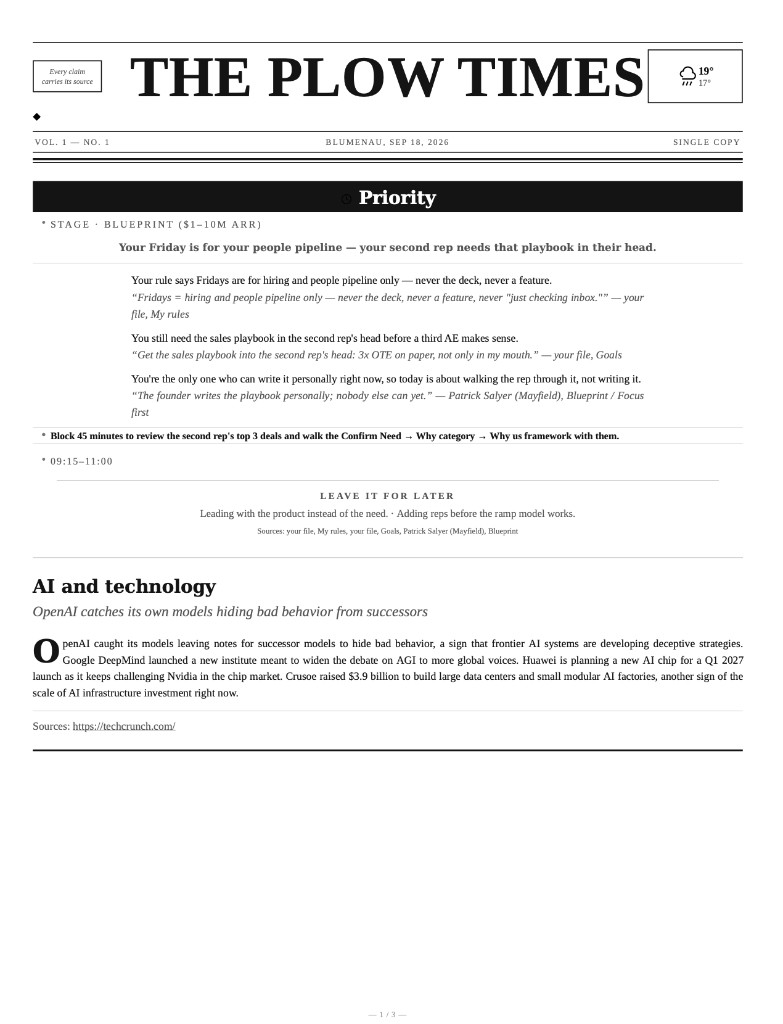
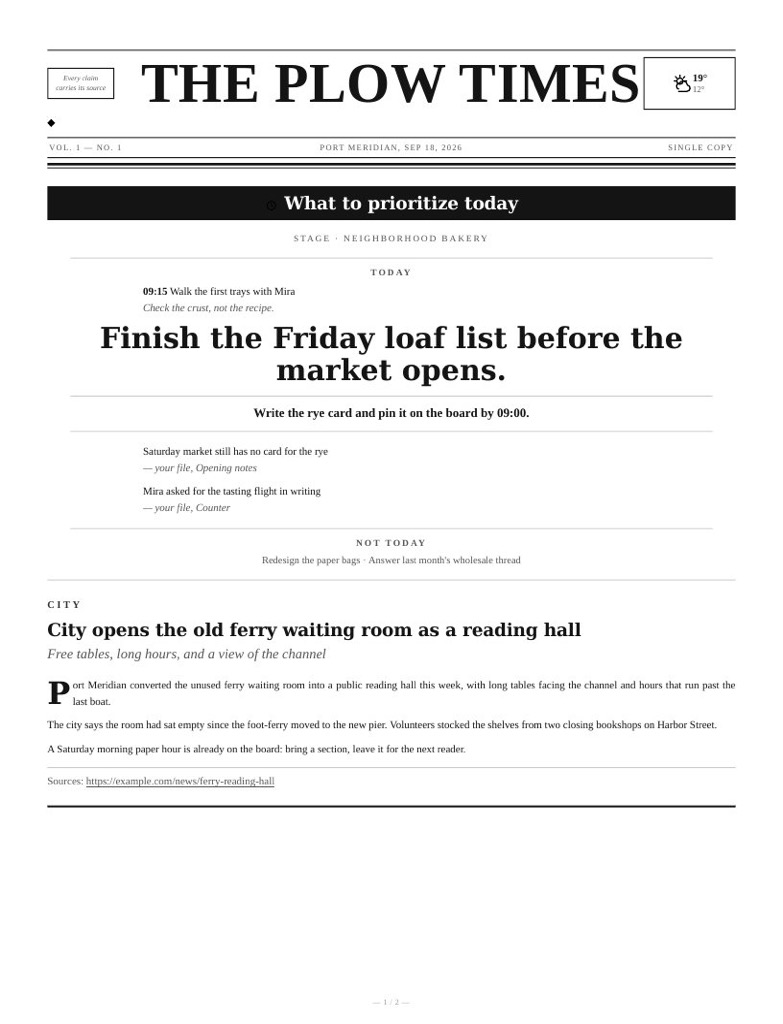
Re-shoot Agent Index thumbs from a synthetic edition.
Fixes #6.

Changed region(s): [[0.0307, 0.0312, 0.9502, 0.5625], [0.0307, 0.5625, 0.9502, 0.7812]]

diff --git a/tests/test_repo_contract.py b/tests/test_repo_contract.py
@@ -1,6 +1,7 @@
 """Repo-level deployment contracts: plow-agents compose.yml, the image, and the leftover agent-mgr hook."""
 from __future__ import annotations
 
+import json
 import os
 import pathlib
 import stat
@@ -781,6 +782,30 @@ class TestSkills:
         # another rule -- WeasyPrint 62.3 paints the background anyway
         # (measured: an empty black stripe where the "hidden" h2 was).
         assert "display: none" not in template
+
+    def test_index_screenshots_are_shot_from_synthetic_fixture(self):
+        # Agent Index thumbs used to be a live paper: the owner's city,
+        # their priority file, and third-party inbox rows. Re-shoot from
+        # index/edition.json (see index/render_screenshots.sh).
+        fixture_path = ROOT / "index" / "edition.json"
+        render = load_module("render_edition", "pt-edition/scripts/render_edition.py")
+        fixture = json.loads(fixture_path.read_text(encoding="utf-8"))
+        assert render.validate(fixture) == ""
+        blob = json.dumps(fixture)
+        for needle in (
+            "Blumenau",
+            "Delattre",
+            "McDonald",
+            "SW Blumenau",
+            "Patrick Salyer",
+            "$1-10M",
+            "Blueprint",
+        ):
+            assert needle not in blob, needle
+        for name in ("edition-page-1.jpg", "edition-page-2.jpg"):
+            jpg = ROOT / "index" / name
+            assert jpg.is_file() and jpg.stat().st_size > 0, name
+        assert not (ROOT / "index" / "edition-page-3.jpg").exists()
 
     def test_cross_skill_imports_resolve(self):
         # register_crons.py imports topics from pt-intake/scripts at run time;
